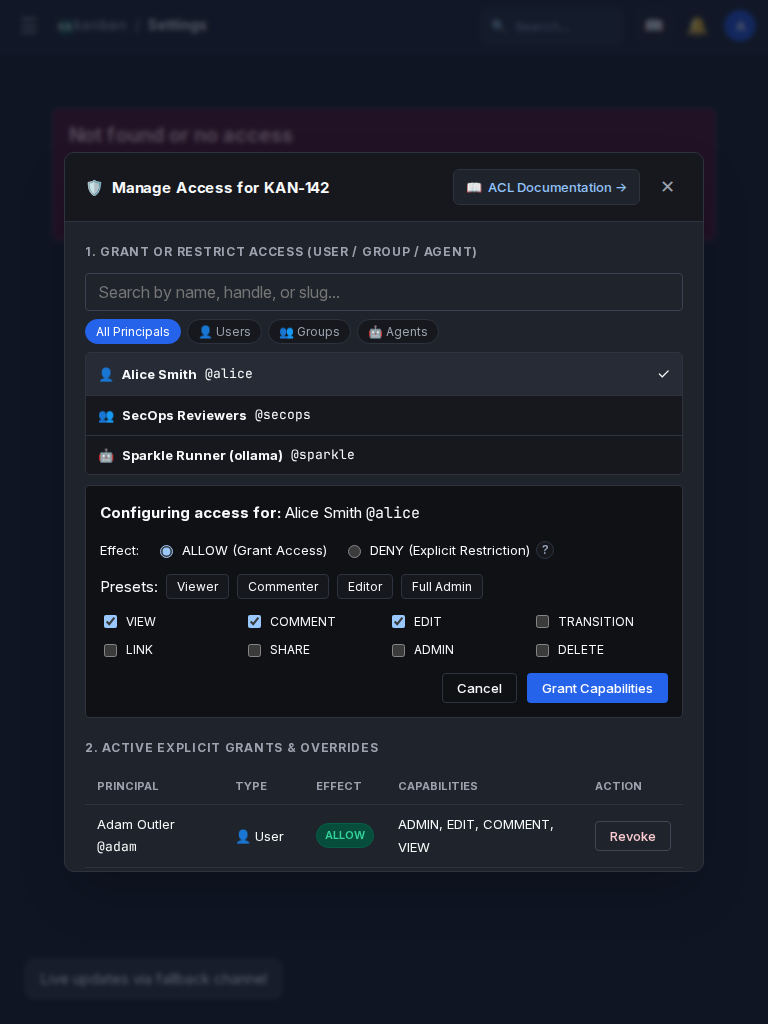
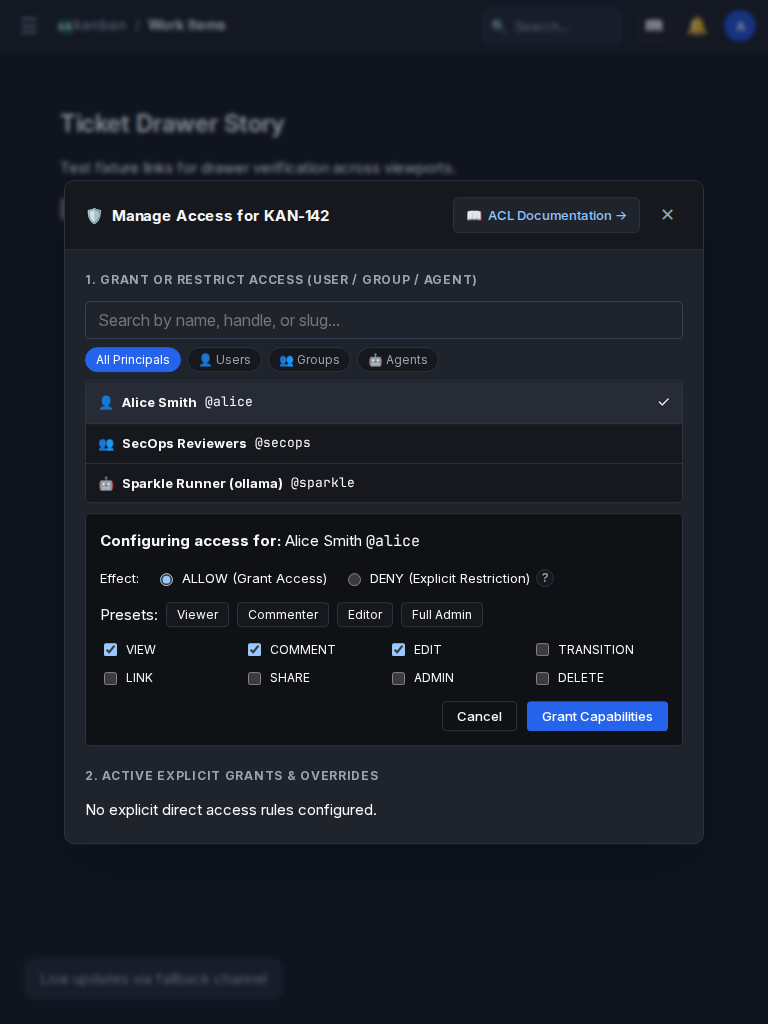
fix(access): [KAN-487] yield focus trap during help drawer and wrap mobile header

diff --git a/kanban/web/src/features/access/ManageAccessModal.test.tsx b/kanban/web/src/features/access/ManageAccessModal.test.tsx
@@ -768,4 +768,57 @@ describe('ManageAccessModal', () => {
       expect(screen.queryByTestId('principal-option-usr-alice')).toBeNull();
     });
   });
+
+  it('yields Tab / Shift+Tab keyboard focus trap when focus or active panel is inside HelpDrawer or field-help-hint-popover', () => {
+    const { unmount } = render(
+      <QueryClientProvider client={queryClient}>
+        <ManageAccessModal
+          objectId="obj-123"
+          isOpen={true}
+          onClose={vi.fn()}
+          manifest={mockManifest}
+        />
+      </QueryClientProvider>,
+    );
+
+    // 1. Simulate focus inside .kb-help-drawer
+    const helpDrawer = document.createElement('div');
+    helpDrawer.className = 'kb-help-drawer';
+    const drawerBtn = document.createElement('button');
+    helpDrawer.appendChild(drawerBtn);
+    document.body.appendChild(helpDrawer);
+    drawerBtn.focus();
+
+    const tabEvent = new KeyboardEvent('keydown', {
+      key: 'Tab',
+      bubbles: true,
+      cancelable: true,
+    });
+    document.dispatchEvent(tabEvent);
+    expect(tabEvent.defaultPrevented).toBe(false);
+    expect(document.activeElement).toBe(drawerBtn);
+
+    document.body.removeChild(helpDrawer);
+
+    // 2. Simulate focus inside .field-help-hint-popover
+    const popover = document.createElement('div');
+    popover.className = 'field-help-hint-popover';
+    const popoverBtn = document.createElement('button');
+    popover.appendChild(popoverBtn);
+    document.body.appendChild(popover);
+    popoverBtn.focus();
+
+    const shiftTabEvent = new KeyboardEvent('keydown', {
+      key: 'Tab',
+      shiftKey: true,
+      bubbles: true,
+      cancelable: true,
+    });
+    document.dispatchEvent(shiftTabEvent);
+    expect(shiftTabEvent.defaultPrevented).toBe(false);
+    expect(document.activeElement).toBe(popoverBtn);
+
+    document.body.removeChild(popover);
+    unmount();
+  });
 });

diff --git a/kanban/web/src/dev/DrawerStory.tsx b/kanban/web/src/dev/DrawerStory.tsx
@@ -1,12 +1,25 @@
-import React, { type JSX } from 'react';
+import React, { useState, type JSX } from 'react';
 import { IssueKeyLink } from '../features/drawer/IssueKeyLink';
+import { ManageAccessModal } from '../features/access/ManageAccessModal';
 import './DrawerStory.css';
 
 export function DrawerStory(): JSX.Element {
+  const [manageAccessOpen, setManageAccessOpen] = useState(
+    typeof window !== 'undefined' &&
+      new URLSearchParams(window.location.search).get('modal') === 'access',
+  );
+
   return (
     <main id="kb-main" tabIndex={-1} data-testid="drawer-story" className="drawer-story">
       <h1>Ticket Drawer Story</h1>
       <p>Test fixture links for drawer verification across viewports.</p>
+      <button
+        type="button"
+        data-testid="open-manage-access-btn"
+        onClick={() => { setManageAccessOpen(true); }}
+      >
+        Open Manage Access Modal
+      </button>
       <ul className="drawer-story__list">
         <li className="drawer-story__item">
           <IssueKeyLink
@@ -36,6 +49,12 @@ export function DrawerStory(): JSX.Element {
           </IssueKeyLink>
         </li>
       </ul>
+      <ManageAccessModal
+        objectId="c0000000-0000-0000-0000-000000000142"
+        canonicalKey="KAN-142"
+        isOpen={manageAccessOpen}
+        onClose={() => { setManageAccessOpen(false); }}
+      />
     </main>
   );
 }

diff --git a/kanban/web/src/features/access/ManageAccessModal.tsx b/kanban/web/src/features/access/ManageAccessModal.tsx
@@ -15,6 +15,7 @@ import { useQuery, useMutation, useQueryClient } from '@tanstack/react-query';
 import { apiFetch, getCsrfToken } from '../../api/client';
 import { qk } from '../../api/queryKeys';
 import { useFocusTrap } from '../drawer/useFocusTrap';
+import { useOptionalShellPanels } from '../../app/shellPanels';
 import { AgentKillSwitchControl } from './AgentKillSwitchControl';
 import { FieldHelpHint } from '../../components/help/FieldHelpHint';
 import { StudioDocLink } from '../../components/help/StudioDocLink';
@@ -73,7 +74,9 @@ export function ManageAccessModal({
     text: string;
   } | null>(null);
 
-  useFocusTrap(isOpen, modalRef);
+  const panels = useOptionalShellPanels();
+  const isHelpOpen = panels?.activePanel?.id === 'help';
+  useFocusTrap(isOpen && !isHelpOpen, modalRef);
 
   const handleClose = (): void => {
     if (document.querySelector('.kb-help-drawer') || document.querySelector('.field-help-hint-popover')) {

diff --git a/kanban/web/src/features/drawer/useFocusTrap.ts b/kanban/web/src/features/drawer/useFocusTrap.ts
@@ -23,6 +23,9 @@ export function useFocusTrap(active: boolean, containerRef: RefObject<HTMLElemen
       if (e.key !== 'Tab') {
         return;
       }
+      if (document.querySelector('.kb-help-drawer, .kb-help-drawer-backdrop, .field-help-hint-popover')) {
+        return;
+      }
       const container = containerRef.current;
       if (!container) {
         return;

diff --git a/kanban/web/src/features/access/ManageAccessModal.css b/kanban/web/src/features/access/ManageAccessModal.css
@@ -385,6 +385,11 @@
 }
 
 @media (max-width: 767px), (pointer: coarse) {
+  .manage-access-modal__header {
+    flex-wrap: wrap;
+    gap: var(--space-2, 8px);
+  }
+
   .manage-access-chip,
   .manage-access-preset-btn,
   .manage-access-btn,
